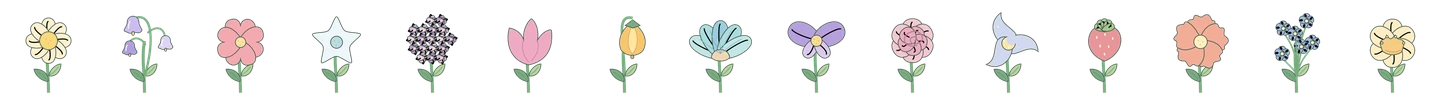
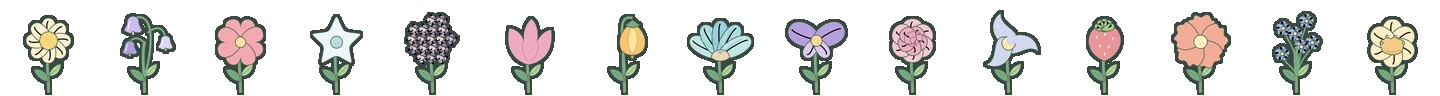
Flores fofas: contorno mais marcante
O traço original some na redução; a silhueta dilatada em verde-acinzentado escuro o reforça.

Claude-Session: https://claude.ai/code/session_01KGdgomm438trDHTLPLqJmv

diff --git a/scripts/extract-flowers.py b/scripts/extract-flowers.py
@@ -12,10 +12,12 @@ import re
 from pathlib import Path
 
 import numpy as np
-from PIL import Image
+from PIL import Image, ImageFilter
 
 ROOT = Path(__file__).resolve().parent.parent
 FRAME = 96
+OUTLINE = (58, 72, 66)  # contorno extra (v0.93.97): o traço original some na redução; este o reforça por fora
+OUTLINE_PX = 5          # MaxFilter (ímpar): 5 = ~2 px de arte de contorno
 BASE_Y, STEM_X = 278, 179
 files = sorted(glob.glob(str(ROOT / 'assets-src' / 'flores' / '[0-9][0-9]-*.png')), key=lambda f: int(re.search(r'/(\d\d)-', f).group(1)))
 ims = [Image.open(f).convert('RGBA') for f in files]
@@ -25,5 +27,11 @@ strip = Image.new('RGBA', (FRAME * len(ims), FRAME), (0, 0, 0, 0))
 for i, im in enumerate(ims):
     s = im.resize((round(im.width * scale), round(im.height * scale)), Image.LANCZOS)
     strip.alpha_composite(s, (i * FRAME + FRAME // 2 - round(STEM_X * scale), 92 - round(BASE_Y * scale)))
+# contorno: silhueta dilatada em OUTLINE_COLOR por trás do desenho
+alpha = strip.getchannel('A').point(lambda v: 255 if v > 24 else 0).filter(ImageFilter.MaxFilter(OUTLINE_PX))
+base = Image.new('RGBA', strip.size, OUTLINE + (0,))
+base.putalpha(alpha)
+base.alpha_composite(strip)
+strip = base
 strip.save(ROOT / 'src' / 'assets' / 'flowers.webp', 'WEBP', quality=90, method=6)
 print(len(ims), 'flores, escala', round(scale, 3))

diff --git a/docs/CHANGELOG.md b/docs/CHANGELOG.md
@@ -2,7 +2,7 @@
 
 ## Orvalis v0.93.97 — flores fofas no mundo (15 variantes) (15/11/2026)
 - **Pedido do dono do produto:** incluir as "Flores fofas v01" (15 estudos; a 13 Dançarina de Coral chegou depois dos demais) como enfeite do mundo. Escolhas dele: substitui a Flor atual (sem colisão, não colocável), sorteada por célula em rodízio nos mesmos lugares onde já nasciam flores (biomas, cidade), **tamanho pequeno** (~0,6 célula).
-- **Arte** (`scripts/extract-flowers.py`, fontes em `assets-src/flores/`): uma só escala para todas (a mais alta, o Lírio de Lua, = 80 px de arte; 128 px = 1 célula, como a cerca) → `src/assets/flowers.webp`, 15 quadros 96 × 96, base do caule em (48, 92). Flor nova = PNG `NN-nome.png` na pasta + rodar o script (o jogo lê a quantidade pela largura da tira).
+- **Arte** (`scripts/extract-flowers.py`, fontes em `assets-src/flores/`): uma só escala para todas (a mais alta, o Lírio de Lua, = 80 px de arte; 128 px = 1 célula, como a cerca) → `src/assets/flowers.webp`, 15 quadros 96 × 96, base do caule em (48, 92). **Contorno reforçado** (pedido do dono do produto): a silhueta dilatada ~2 px de arte numa cor verde-acinzentada escura (`OUTLINE`/`OUTLINE_PX` no script) por trás de cada flor, porque o traço original some na redução. Flor nova = PNG `NN-nome.png` na pasta + rodar o script (o jogo lê a quantidade pela largura da tira).
 - **Render** (`blockArt.getFlowerArt`, `textures.ts`): os quadros viram `variants` de `Block.FLOWER` (mesmo sorteio por célula de rochas/árvores, `worldSpriteArt` e `drawObject`); a Flor procedural fica de reserva fora do mundo principal. O balanço ao vento (`wind.ts`, `grass`) continua valendo. Só aparência: sem mudança de mapa, save ou protocolo; o servidor não muda.
 - 597 testes (grade 2) e 588 (grade 1) e `tsc` verdes; conferido no navegador (3D).
 
